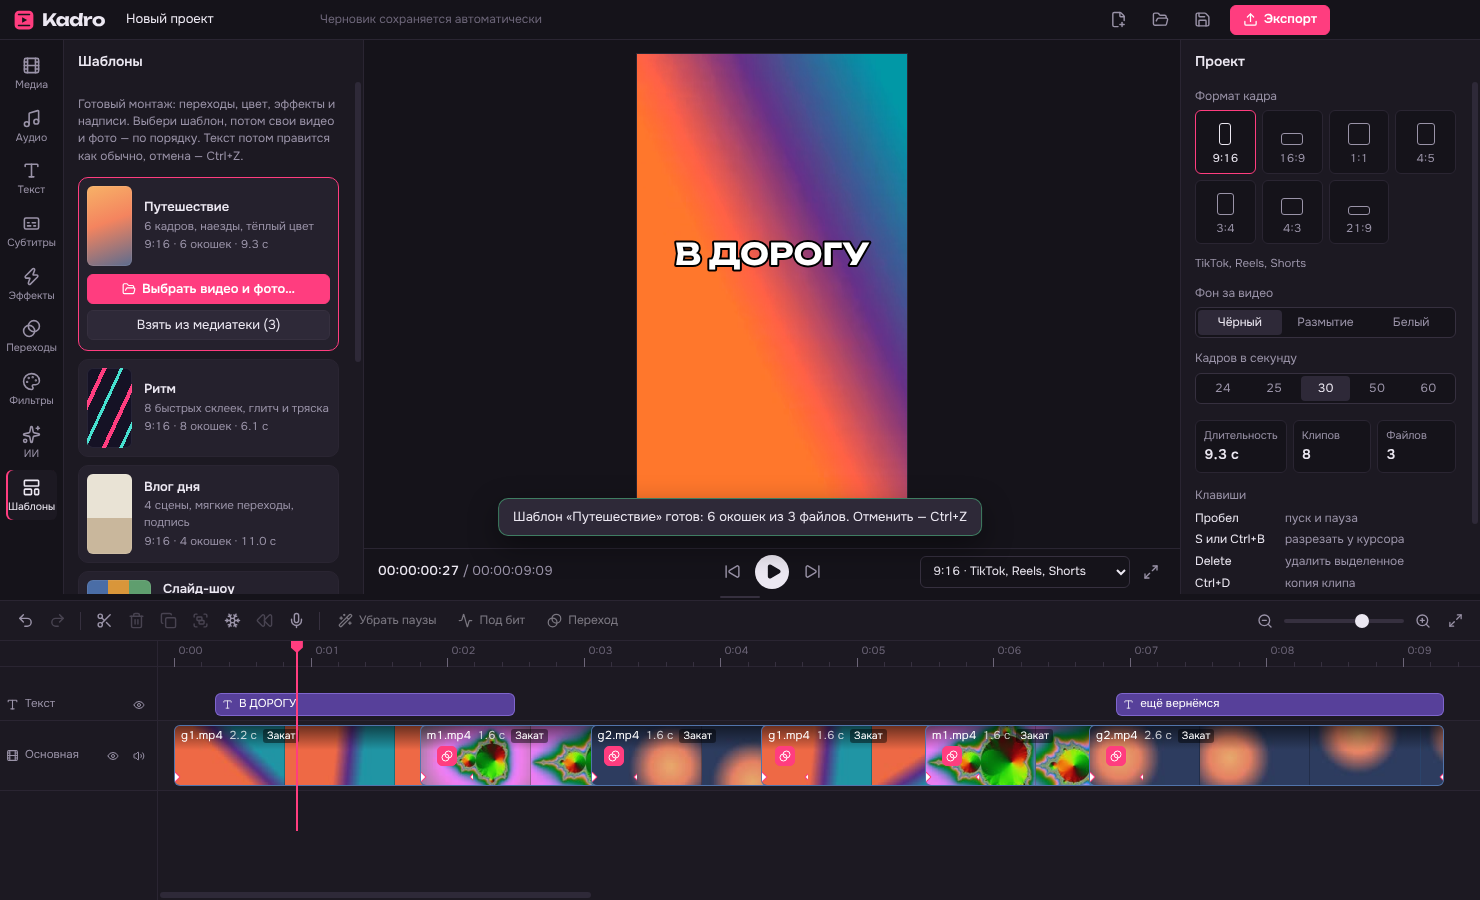
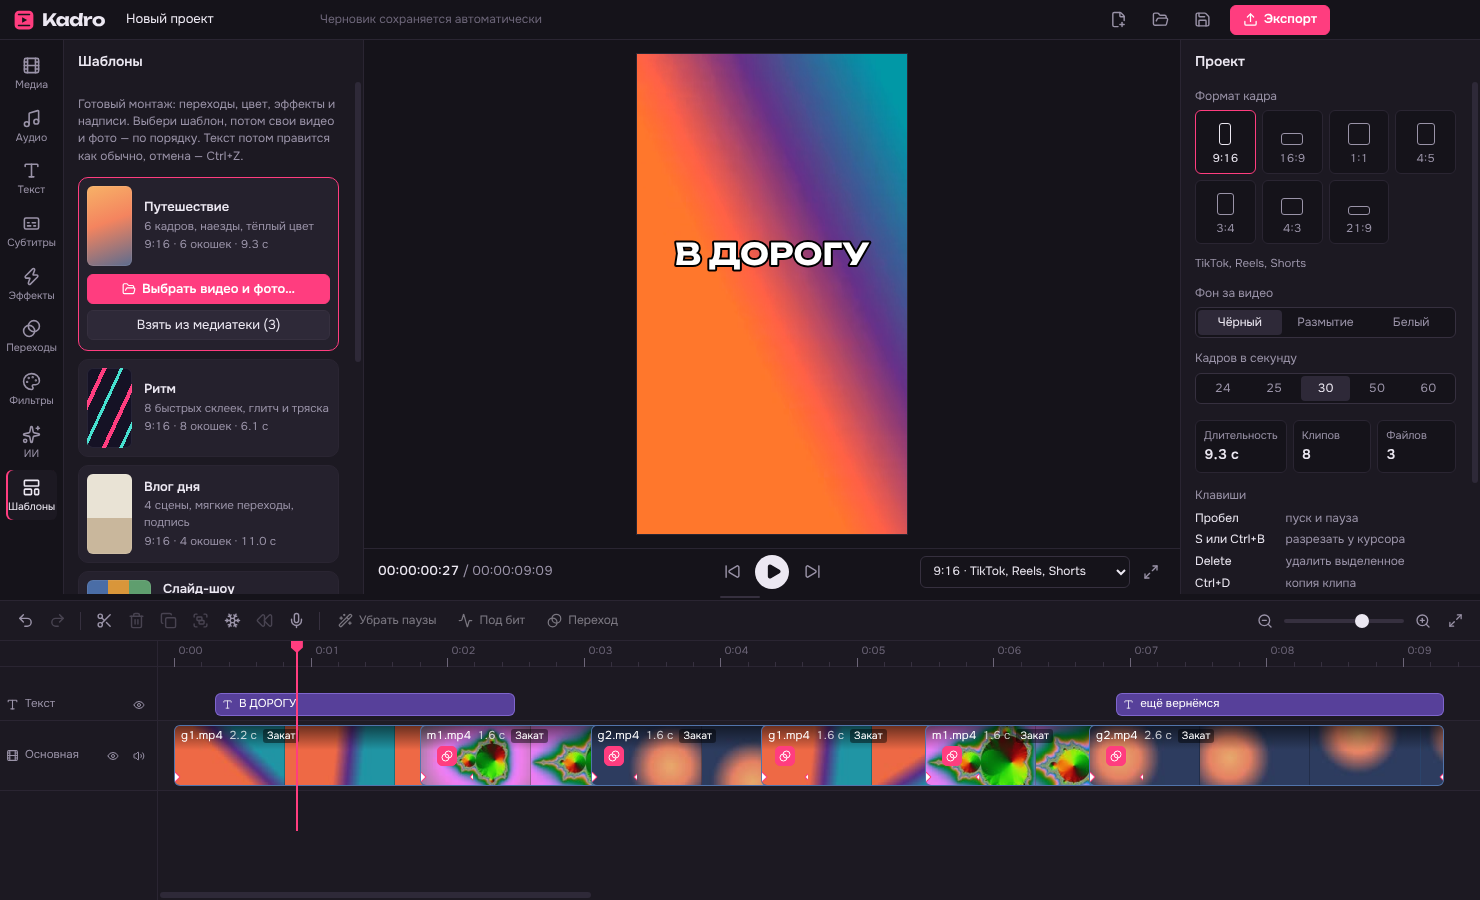
Оформление: логотип, обложка, бейджи; переносная версия zip; защита от падений (окно ошибки, перезапуск окна, журнал)
Claude-Session: https://claude.ai/code/session_01SLdS9k2x7CNrH4zniVX1AR

Changed region(s): [[0.3108, 0.5289, 0.6838, 0.6222], [0.8703, 0.56, 0.9324, 0.6533]]

diff --git a/src/renderer/components/Crash.tsx b/src/renderer/components/Crash.tsx
@@ -1,0 +1,39 @@
+// Если в интерфейсе случилась ошибка — вместо белого экрана понятное окно; проект при этом не теряется.
+import { Component, type ErrorInfo, type ReactNode } from 'react';
+import { api } from '../store';
+
+interface State { error: Error | null }
+
+export class CrashGuard extends Component<{ children: ReactNode }, State> {
+  state: State = { error: null };
+
+  static getDerivedStateFromError(error: Error): State {
+    return { error };
+  }
+
+  componentDidCatch(error: Error, info: ErrorInfo): void {
+    try { api.logError(`${error.stack ?? error.message}\n${info.componentStack ?? ''}`); } catch { /* журнал недоступен */ }
+  }
+
+  render(): ReactNode {
+    const e = this.state.error;
+    if (!e) return this.props.children;
+    return (
+      <div className="crash" role="alert" data-testid="crash">
+        <div className="crash-card">
+          <h2>Что-то пошло не так</h2>
+          <p>Kadro поймал ошибку в окне. Проект не потерян — черновик сохраняется автоматически.</p>
+          <div className="row-btns">
+            <button className="btn primary" onClick={() => this.setState({ error: null })}>Вернуться к работе</button>
+            <button className="btn" onClick={() => location.reload()}>Перезапустить окно</button>
+          </div>
+          <details>
+            <summary>Подробности для разработчика</summary>
+            <pre>{e.message}</pre>
+          </details>
+          <p className="hint small">Если повторяется — опиши, что делал, на github.com/honeyjostar/kadro/issues и приложи файл %USERPROFILE%\.kadro\kadro.log</p>
+        </div>
+      </div>
+    );
+  }
+}

diff --git a/src/main/main.ts b/src/main/main.ts
@@ -92,7 +92,15 @@ function createWindow(): void {
   win.webContents.on('before-input-event', (_e, input) => {
     if (input.type === 'keyDown' && input.key === 'F12') win?.webContents.toggleDevTools();
   });
-  win.webContents.on('render-process-gone', (_e, d) => log('renderer gone', d));
+  // окно упало (нехватка памяти, сбой видеодрайвера) — перезагружаем: черновик сохраняется автоматически
+  let lastReload = 0;
+  win.webContents.on('render-process-gone', (_e, d) => {
+    log('renderer gone', d);
+    if (d.reason === 'clean-exit' || !win || win.isDestroyed()) return;
+    if (Date.now() - lastReload < 10_000) return; // не уходим в бесконечный перезапуск
+    lastReload = Date.now();
+    win.webContents.reload();
+  });
   win.webContents.on('console-message', (_e, level, message) => { if (level >= 2) log('renderer:', message); });
   win.loadFile(path.join(__dirname, '..', 'renderer', 'index.html'));
 }
@@ -451,8 +459,12 @@ function registerIpc(): void {
   });
   ipcMain.on('shell:show', (_e, p: string) => shell.showItemInFolder(p));
   ipcMain.on('win:title', (_e, t: string) => win?.setTitle(t));
+  ipcMain.on('app:log', (_e, ...a: unknown[]) => log('renderer error:', ...a));
 }
 
+// неожиданная ошибка в главном процессе — в журнал, программа продолжает работать
+process.on('uncaughtException', (e) => log('uncaught', e));
+process.on('unhandledRejection', (e) => log('unhandled rejection', e));
 // автотесты: ненастоящий микрофон без запроса разрешения
 if (process.env.KADRO_FAKE_MEDIA) {
   app.commandLine.appendSwitch('use-fake-device-for-media-stream');

diff --git a/src/renderer/main.tsx b/src/renderer/main.tsx
@@ -4,9 +4,23 @@ import './styles.css';
 import * as timeline from '../shared/timeline';
 import * as actions from './actions';
 import { App } from './components/App';
-import { useStore } from './store';
+import { api, getState, useStore } from './store';
+import { CrashGuard } from './components/Crash';
 
 // доступ для автотестов (window.__kadro) — в обычной работе не используется
 (window as unknown as { __kadro: unknown }).__kadro = { useStore, actions, timeline };
 
-createRoot(document.getElementById('root')!).render(<App />);
+// ошибки вне React (обработчики, промисы) не роняют окно: в журнал и короткое сообщение
+const report = (msg: string) => {
+  try { api.logError(msg); } catch { /* журнал недоступен */ }
+  try { getState().toast(`Произошла ошибка: ${msg.split('\n')[0].slice(0, 160)}`, 'err'); } catch { /* интерфейс ещё не готов */ }
+};
+window.addEventListener('error', (e) => { if (e.error) report(e.error instanceof Error ? e.error.stack ?? e.error.message : String(e.error)); });
+window.addEventListener('unhandledrejection', (e) => {
+  const r = e.reason;
+  // отменённое пользователем — не ошибка
+  if (r instanceof DOMException && r.name === 'AbortError') return;
+  report(r instanceof Error ? r.stack ?? r.message : String(r));
+});
+
+createRoot(document.getElementById('root')!).render(<CrashGuard><App /></CrashGuard>);

diff --git a/src/renderer/styles.css b/src/renderer/styles.css
@@ -455,3 +455,11 @@ textarea.input { resize: vertical; min-height: 64px; line-height: 1.4; user-sele
 .tpl-info { display: flex; flex-direction: column; gap: 2px; min-width: 0; }
 .tpl-info b { font-size: 13px; }
 .tpl-actions { display: flex; flex-direction: column; gap: 6px; padding: 0 8px 10px; }
+
+/* окно ошибки */
+.crash { position: fixed; inset: 0; display: grid; place-items: center; background: var(--bg); z-index: 1000; padding: 16px; }
+.crash-card { max-width: 460px; padding: 24px; background: var(--panel); border: 1px solid var(--line); border-radius: var(--radius-m); }
+.crash-card h2 { margin: 0 0 8px; font-family: var(--logo); font-size: 20px; }
+.crash-card p { color: var(--muted); line-height: 1.5; }
+.crash-card details { margin-top: 14px; color: var(--muted); font-size: 12px; }
+.crash-card pre { white-space: pre-wrap; word-break: break-word; background: var(--bg); padding: 8px; border-radius: var(--radius-s); }

diff --git a/src/shared/ipc.ts b/src/shared/ipc.ts
@@ -92,4 +92,6 @@ export interface KadroApi {
   onAiProgress(cb: (jobId: string, p: number, stage?: string) => void): () => void;
   showInFolder(path: string): void;
   setTitle(title: string): void;
+  /** Записать ошибку окна в журнал программы. */
+  logError(message: string): void;
 }

diff --git a/src/preload/preload.ts b/src/preload/preload.ts
@@ -37,6 +37,7 @@ const api: KadroApi = {
   onAiProgress: (cb) => on('ai:progress', cb),
   showInFolder: (p) => ipcRenderer.send('shell:show', p),
   setTitle: (t) => ipcRenderer.send('win:title', t),
+  logError: (message) => ipcRenderer.send('app:log', message),
 };
 
 contextBridge.exposeInMainWorld('kadro', api);
